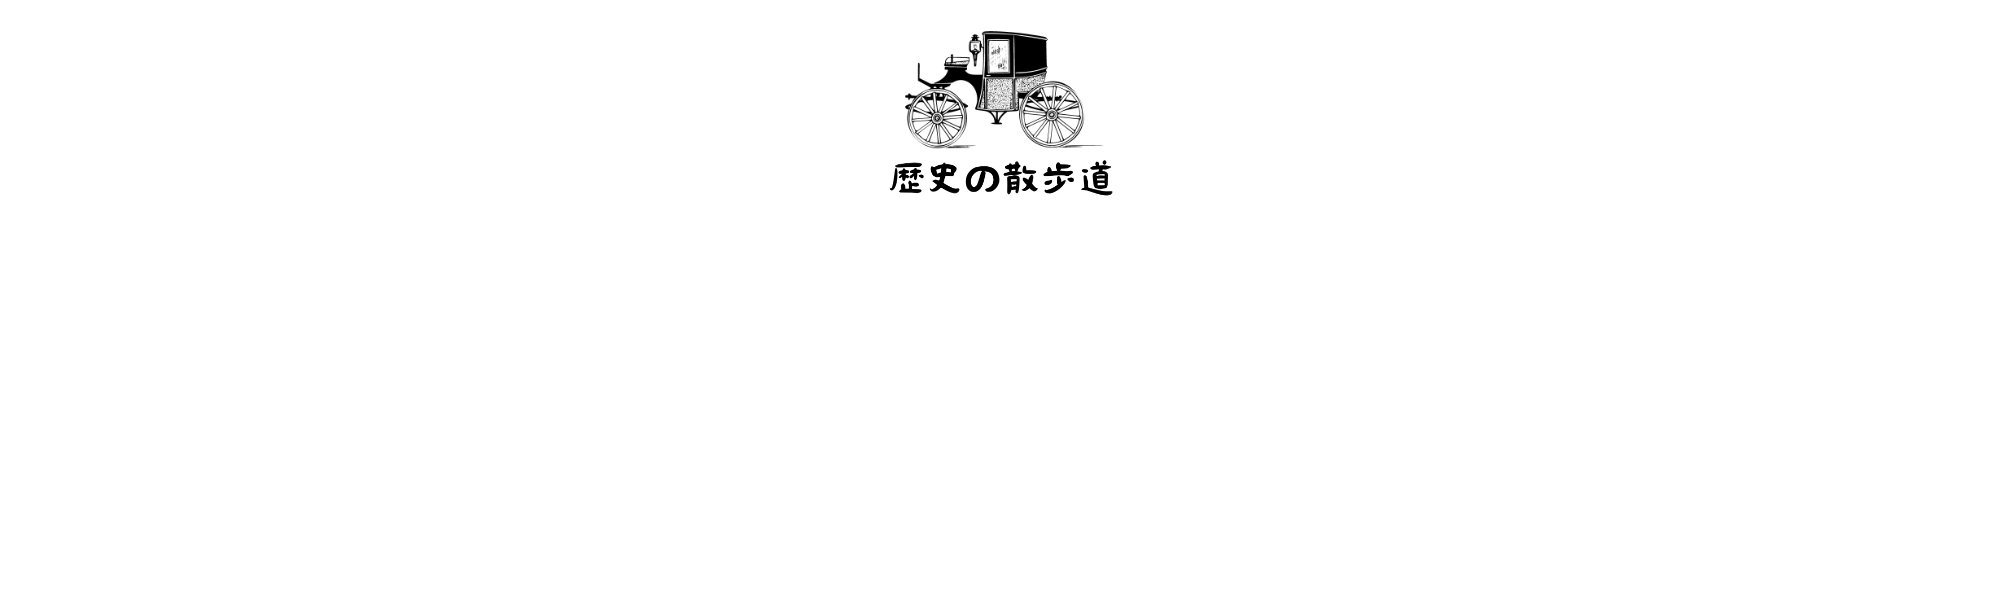
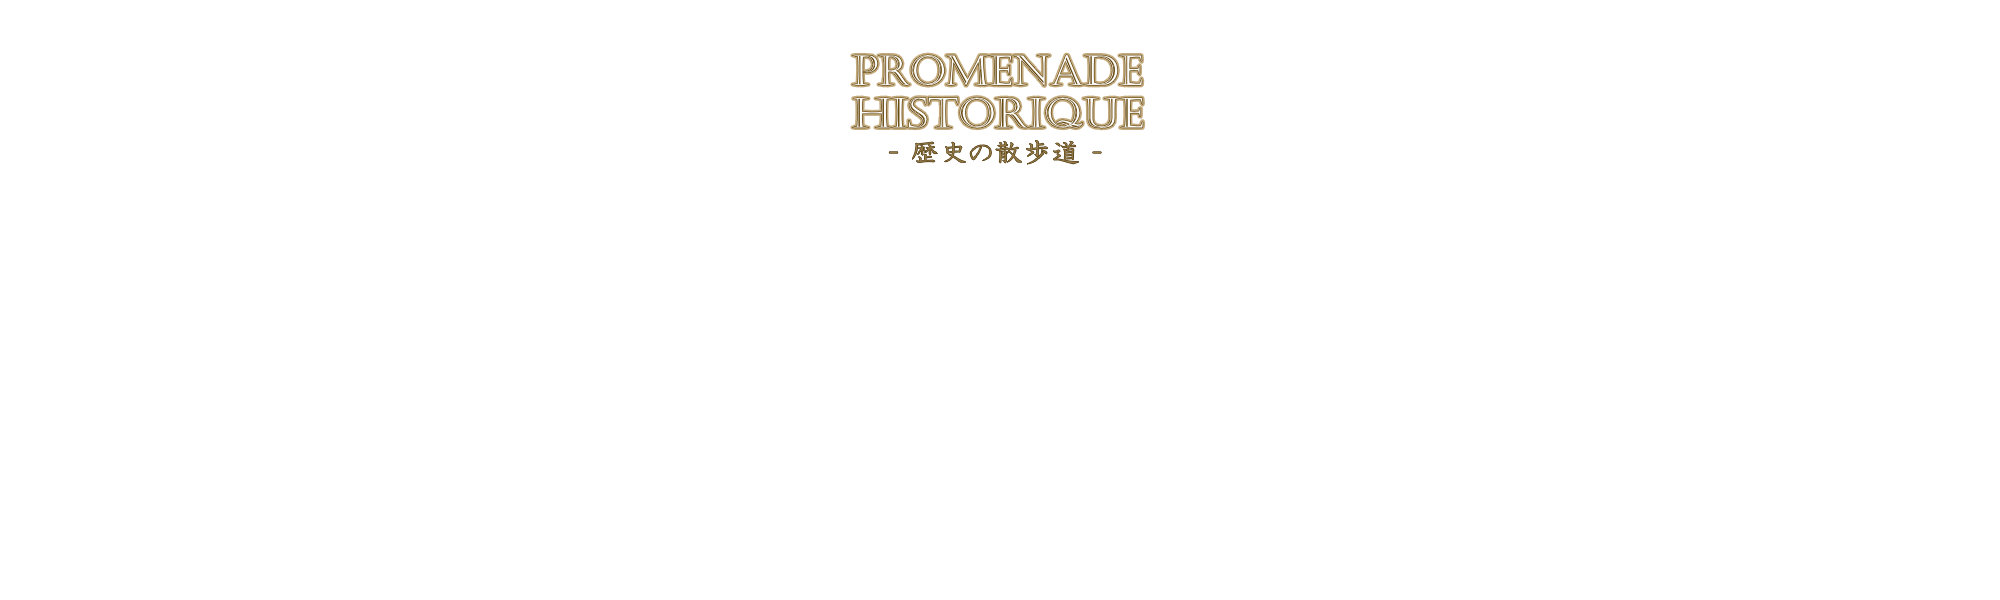
ヘッダー画像とAbout記述の修正

Changed region(s): [[0.403, 0.03, 0.589, 0.33]]

diff --git a/footer.php b/footer.php
@@ -18,7 +18,7 @@
     <section class="item">
       <h3 class="footer-title">About</h3>
       <p>
-        歴史が好きな有閑マダムを目指す普通の会社員です。こちらのブログはWordPressオリジナルテーマのサンプルサイトです。このサイトでフランス史を中心とした歴史ブログを書いています。
+        世界史は範囲が広いため、まずはフランス史を中心に西洋史のブログを書いていきます。史実を追いながら個人的に気になる歴史上の出来事や人物について掘り下げて記事を書いています。
       </p>
       <div class="footer-banner">
       <a href="https://devmilk.biz/portfolio/">
